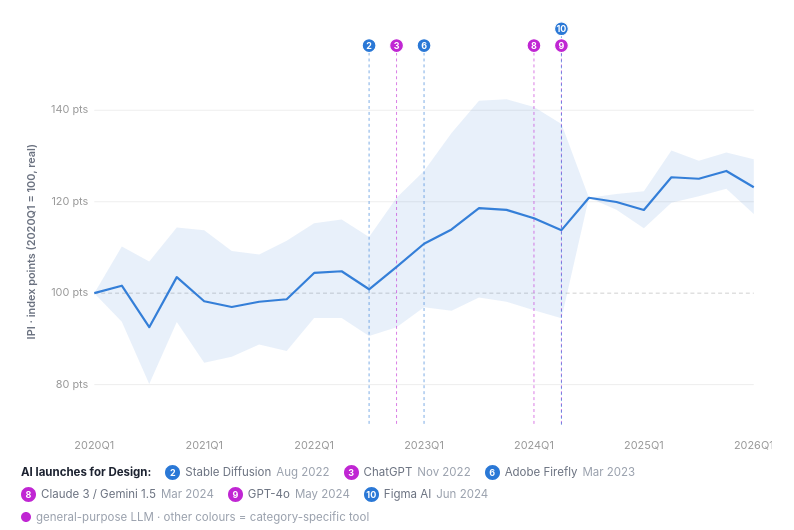
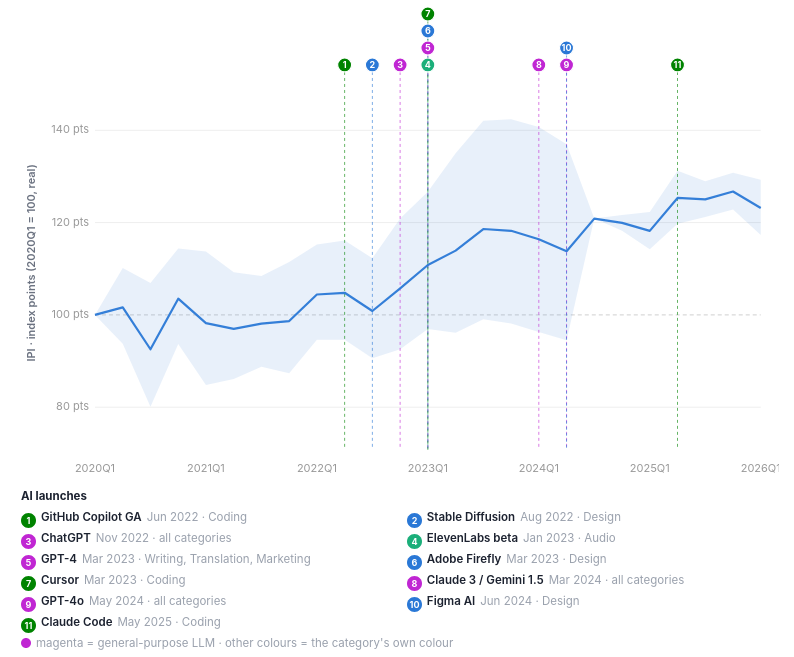
site: full numbered launch legend under every chart
Every chart draws all eleven launches on a rail above the plot, with the
complete 1-11 legend (name, month/year, categories) directly beneath it,
so each exported figure carries its own key. Category panels still mark
only their own category's launches. Refreshed PNG exports.

diff --git a/docs/ipi.js b/docs/ipi.js
@@ -341,7 +341,7 @@ function drawChart(cats, comp) {
   const lr = (W - m.l - m.r) / (n - 1) < 20 ? 5 : 7;
   const lx = L => { const i = months.indexOf(L.q);
     return i < 0 ? null : m.l + (i / (n - 1)) * (W - m.l - m.r); };
-  const launchSet = showLaunches ? launchesFor(cats.map(parentOf)) : [];
+  const launchSet = showLaunches ? AI_LAUNCHES : [];
   const { marks: lmarks, lanes } = launchLanes(launchSet, lx, lr);
   if (lanes) m.t += lanes * (2 * lr + 3) + 4;
   const H = 404 + m.t;
@@ -442,16 +442,7 @@ function drawChart(cats, comp) {
 
   // AI launch markers behind the series
   drawLaunchMarks(svg, lmarks, lane => m.t - 4 - lr - lane * (2 * lr + 3), H - m.b, lr);
-  const ll = document.getElementById("launchlist");
-  if (ll) {
-    ll.innerHTML = launchSet.length
-      ? `<span class="llead">AI launches${cats.length === 1 ? " for " + labelOf(cats[0]) : ""}:</span>`
-        + launchLegendHTML(launchSet)
-        + `<span class="lkey"><span class="lbadge" style="background:${LAUNCH_GENERAL}"></span>general-purpose LLM`
-        + ` &middot; other colours = category-specific tool</span>`
-      : "";
-    ll.style.display = launchSet.length ? "" : "none";
-  }
+  renderLaunchList("launchlist");
 
   // series paths
   for (const s of series) {
@@ -595,10 +586,23 @@ function drawLaunchMarks(svg, marks, laneY, yBot, r) {
     svg.appendChild(g);
   }
 }
-// Inline legend: one item per launch, badge + name + date.
+// Inline legend: one item per launch, badge + name + date + categories.
 function launchLegendHTML(list) {
   return list.map(L => `<span class="lchip"><span class="lbadge" style="background:${launchColor(L)}">${L.n}</span>`
-    + `${L.label} <span class="lwhen">${L.when}</span></span>`).join("");
+    + `<b>${L.label}</b> <span class="lwhen">${L.when} &middot; ${launchCats(L)}</span></span>`).join("");
+}
+// The full numbered list, placed directly under a chart so a screenshot of the
+// chart alone carries its key. Hidden when the markers are toggled off.
+function renderLaunchList(id, extra) {
+  const ll = document.getElementById(id);
+  if (!ll) return;
+  ll.innerHTML = showLaunches
+    ? `<span class="llead">AI launches</span>` + launchLegendHTML(AI_LAUNCHES)
+      + `<span class="lkey"><span class="lbadge" style="background:${LAUNCH_GENERAL}"></span>magenta = general-purpose LLM`
+      + ` &middot; other colours = the category's own colour</span>`
+      + (extra ? `<span class="lkey">${extra}</span>` : "")
+    : "";
+  ll.style.display = showLaunches ? "" : "none";
 }
 
 // ---- volume, with no price index in it -------------------------------------
@@ -629,11 +633,16 @@ function drawVolume() {
   const x0 = Math.min(qn(qs[0]), bx[0]), x1 = Math.max(qn(qs[qs.length - 1]), bx[bx.length - 1]);
 
   const W = box.clientWidth || 900, narrow = W < 620;
-  const H = narrow ? 300 : 360, m = { t: 16, r: narrow ? 16 : 132, b: 34, l: 48 };
+  const m = { t: 16, r: narrow ? 16 : 132, b: 34, l: 48 };
   const vals = acc.filter(v => v != null).concat(bidx);
   let lo = Math.min(...vals), hi = Math.max(...vals);
   const pad = Math.max((hi - lo) * .14, 2); lo -= pad; hi += pad;
   const X = v => m.l + ((v - x0) / (x1 - x0)) * (W - m.l - m.r);
+  // launch rail in the top margin, so badges never sit on the series
+  const vlr = narrow ? 5 : 7;
+  const vl = launchLanes(showLaunches ? AI_LAUNCHES : [], L => X(qn(L.q)), vlr);
+  if (vl.lanes) m.t += vl.lanes * (2 * vlr + 3) + 4;
+  const H = (narrow ? 284 : 344) + m.t;
   const Y = v => m.t + (1 - (v - lo) / (hi - lo)) * (H - m.t - m.b);
 
   const svg = el("svg", { _svg: 1, viewBox: `0 0 ${W} ${H}`, width: W, height: H });
@@ -663,11 +672,7 @@ function drawVolume() {
       stroke: "#6b7280", "stroke-width": 1.1, "stroke-dasharray": "3 3" }));
     svg.appendChild(el("text", { _svg: 1, x: x + 5, y: m.t + 12, "font-size": 10, fill: "#6b7280" }, ["step down"]));
   }
-  // pooled across categories, so only the general-purpose launches apply
-  const vlr = narrow ? 5 : 7;
-  const vl = launchLanes(showLaunches ? AI_LAUNCHES.filter(launchGeneral) : [],
-                         L => X(qn(L.q)), vlr);
-  drawLaunchMarks(svg, vl.marks, lane => m.t + vlr + 2 + lane * (2 * vlr + 3), H - m.b, vlr);
+  drawLaunchMarks(svg, vl.marks, lane => m.t - 4 - vlr - lane * (2 * vlr + 3), H - m.b, vlr);
 
   const keep = acc.map((v, i) => [i, v]).filter(p => p[1] != null);
   svg.appendChild(el("path", { _svg: 1, fill: "none", stroke: VOL_ACCRUAL, "stroke-width": 2.6,
@@ -754,6 +759,7 @@ function drawVolume() {
   hit.addEventListener("mouseleave", () => { guide.setAttribute("opacity", 0); tip.style.display = "none"; });
   svg.appendChild(hit);
   box.appendChild(svg);
+  renderLaunchList("launchlist-vol");
 
   const lg = document.getElementById("vollegend");
   if (lg) lg.innerHTML =
@@ -777,8 +783,7 @@ function drawVolume() {
   if (nt) nt.innerHTML =
     `<span>No price index is used anywhere on this card. Review accrual is the equal-weighted `
     + `mean of the seven category indices (age-adjusted, within-gig); active buyers is as reported. `
-    + `Accrual ends 2024Q4; buyers runs to the twelve months ending 2026Q2.</span>`
-    + (showLaunches ? `<span class="lkeys">Markers: general-purpose LLM launches &mdash; ${launchLegendHTML(AI_LAUNCHES.filter(launchGeneral))}</span>` : "");
+    + `Accrual ends 2024Q4; buyers runs to the twelve months ending 2026Q2.</span>`;
 }
 
 // ---- transactions: the implied order count ---------------------------------
@@ -809,7 +814,7 @@ function drawTransactions() {
   }
   [...box.querySelectorAll("svg")].forEach(s => s.remove());
   const tip = document.getElementById("txtip");
-  const W = box.clientWidth || 900, H = 340, m = { t: 16, r: 118, b: 30, l: 62 };
+  const W = box.clientWidth || 900, m = { t: 16, r: 118, b: 30, l: 62 };
   const yrs = TX.years, n = yrs.length;
   const series = TX_SERIES.map(s => ({ ...s, vals: TX[s.key], color: TX_COLORS[s.key] }));
 
@@ -817,6 +822,15 @@ function drawTransactions() {
   let lo = Math.min(...all), hi = Math.max(...all);
   const pad = Math.max((hi - lo) * 0.16, 1); lo -= pad; hi += pad;
   const X = i => m.l + (i / (n - 1)) * (W - m.l - m.r);
+  // launch markers: dates, not results. Each placed where it falls inside its year,
+  // on a rail in the top margin.
+  const tlr = W < 620 ? 5 : 7;
+  const tl = launchLanes(showLaunches ? AI_LAUNCHES : [], L => {
+    const ei = yrs.findIndex(y => parseInt(y, 10) === L.year);
+    return (ei >= 0 && ei < n - 1) ? X(ei) + L.frac * (X(ei + 1) - X(ei)) : null;
+  }, tlr);
+  if (tl.lanes) m.t += tl.lanes * (2 * tlr + 3) + 4;
+  const H = 324 + m.t;
   const Y = v => m.t + (1 - (v - lo) / (hi - lo)) * (H - m.t - m.b);
 
   const svg = el("svg", { _svg: 1, viewBox: `0 0 ${W} ${H}`, width: W, height: H });
@@ -836,16 +850,7 @@ function drawTransactions() {
   yrs.forEach((y, i) => svg.appendChild(el("text", { _svg: 1, x: X(i), y: H - 8,
     "text-anchor": "middle", "font-size": 11, fill: "#999" }, [y])));
 
-  // launch markers: dates, not results. Each placed where it falls inside its year;
-  // the series is platform-wide, so only general-purpose launches apply.
-  {
-    const tlr = W < 620 ? 5 : 7;
-    const tl = launchLanes(showLaunches ? AI_LAUNCHES.filter(launchGeneral) : [], L => {
-      const ei = yrs.findIndex(y => parseInt(y, 10) === L.year);
-      return (ei >= 0 && ei < n - 1) ? X(ei) + L.frac * (X(ei + 1) - X(ei)) : null;
-    }, tlr);
-    drawLaunchMarks(svg, tl.marks, lane => m.t + tlr + 2 + lane * (2 * tlr + 3), H - m.b, tlr);
-  }
+  drawLaunchMarks(svg, tl.marks, lane => m.t - 4 - tlr - lane * (2 * tlr + 3), H - m.b, tlr);
 
   for (const s of series) {
     const d = s.vals.map((v, i) => `${i ? "L" : "M"}${X(i).toFixed(1)} ${Y(v).toFixed(1)}`).join(" ");
@@ -905,6 +910,7 @@ function drawTransactions() {
   });
   hit.addEventListener("mouseleave", () => { guide.setAttribute("opacity", 0); tip.style.display = "none"; });
   box.appendChild(svg);
+  renderLaunchList("launchlist-tx");
 
   // legend (always present for 2+ series) and the table view of the same numbers
   const lg = document.getElementById("txlegend");
@@ -929,7 +935,7 @@ function drawTransactions() {
     });
   }
   const nt = document.getElementById("txnote");
-  if (nt) nt.innerHTML = `<span>${TX.note}</span>` + (showLaunches ? `<span class="lkeys">Markers: general-purpose LLM launches &mdash; ${launchLegendHTML(AI_LAUNCHES.filter(launchGeneral))}</span>` : "");
+  if (nt) nt.textContent = TX.note;
 }
 
 // ---- transactions by category: small multiples -----------------------------
@@ -1055,6 +1061,8 @@ function drawCategoryTx() {
     svg.appendChild(hit);
   });
   box.appendChild(svg);
+  renderLaunchList("launchlist-ctx",
+    "Each panel marks only the launches relevant to that category. Claude Code (11) falls after this series ends in 2024Q4.");
 
   // table view: the relief the contrast WARN obligates, and the only place the
   // full series is legible number by number
@@ -1077,10 +1085,7 @@ function drawCategoryTx() {
   const nt = document.getElementById("ctxnote");
   if (nt) nt.innerHTML = `<span>${CT.note}</span>`
     + `<span><span class="dash" style="border-top-color:#9aa1ad"></span>all-category mean</span>`
-    + `<span><span class="dot" style="background:#6b7280"></span>common step down 2021Q3</span>`
-    + (showLaunches ? `<span class="lkeys">Each panel marks the AI launches relevant to that category `
-      + `(Claude Code, May 2025, falls after this series ends) &mdash; `
-      + `${launchLegendHTML(AI_LAUNCHES.filter(L => L.q <= CT.quarters[CT.quarters.length - 1]))}</span>` : "");
+    + `<span><span class="dot" style="background:#6b7280"></span>common step down 2021Q3</span>`;
 }
 
 // ---- highlighted-move descriptions (list under the chart) ------------------

diff --git a/docs/index.html b/docs/index.html
@@ -105,10 +105,13 @@
     .seg button.on { background: #2a78d6; color: #fff; }
     .seg button.on:hover { background: #2a78d6; }
     /* AI launch legend ------------------------------------------------------ */
-    .launchlist { display: flex; flex-wrap: wrap; gap: 6px 14px; margin-top: 8px;
+    .launchlist { display: grid; grid-template-columns: repeat(auto-fill, minmax(270px, 1fr)); gap: 5px 14px; margin: 8px 0 10px;
       font-size: 11.5px; color: var(--mut); line-height: 1.4; }
+    .launchlist .llead, .launchlist .lkey { grid-column: 1 / -1; }
     .launchlist .llead { font-weight: 700; color: var(--ink); }
-    .lchip { display: inline-flex; align-items: center; gap: 5px; white-space: nowrap; }
+    .lchip b { color: var(--ink); font-weight: 600; }
+    .lchip { display: inline-flex; align-items: baseline; gap: 5px; }
+    .lchip .lbadge { transform: translateY(3px); }
     .lbadge { display: inline-flex; align-items: center; justify-content: center; flex: none;
       min-width: 15px; height: 15px; border-radius: 50%; color: #fff;
       font-size: 9px; font-weight: 700; }
@@ -410,6 +413,7 @@
           <div class="txlegend" id="vollegend"></div>
         </div>
         <div id="volchart"><div class="tip" id="voltip"></div></div>
+        <div class="launchlist" id="launchlist-vol"></div>
         <table class="txtable" id="voltable">
           <caption class="sr-only">Pooled review-accrual index and Fiverr active buyers, both on a 2020 equals 100 base</caption>
           <thead><tr><th scope="col">Quarter</th><th scope="col">Review accrual</th>
@@ -453,6 +457,7 @@
           <div class="txlegend" id="txlegend"></div>
         </div>
         <div id="txchart"><div class="tip" id="txtip"></div></div>
+        <div class="launchlist" id="launchlist-tx"></div>
         <table class="txtable" id="txtable">
           <caption class="sr-only">Fiverr transaction quantities, 2020 to the twelve months ending 2026Q2</caption>
           <thead>
@@ -507,6 +512,7 @@
           </ul>
         </div>
         <div id="ctxchart"><div class="tip" id="ctxtip"></div></div>
+        <div class="launchlist" id="launchlist-ctx"></div>
         <table class="txtable" id="ctxtable">
           <caption class="sr-only">Age-adjusted review-accrual index by category, 2018Q4 to 2024Q4</caption>
           <thead><tr id="ctxhead"></tr></thead>

diff --git a/progress.md b/progress.md
@@ -21,6 +21,11 @@ Gemini 1.5 Mar 2024, GPT-4o May 2024 (general, every category).
   writing/translation/marketing, because the existing card text reads it across all panels.
   Cursor, given only as "2023", is placed at its Mar 2023 public launch.
 - Markers are dates, not results; no card text was changed to claim any launch moved a series.
+- **Revision (same day, team-review feedback):** every chart now draws all eleven launches
+  (previously filtered by selection / general-only on pooled charts), badges sit on a rail
+  above each plot, and each chart carries the full numbered legend 1-11 (name, month/year,
+  categories) directly beneath it, so each exported figure is self-keyed. Category panels
+  still mark only their own category's launches; Claude Code (11) is past their 2024Q4 end.
 - Static PNG exports for team review: `outputs/figures/fig-ai-launches-{1-price-index-design,
   2-volume,3-transactions,4-category-panels}.png` (screenshots of the rendered site).
 
